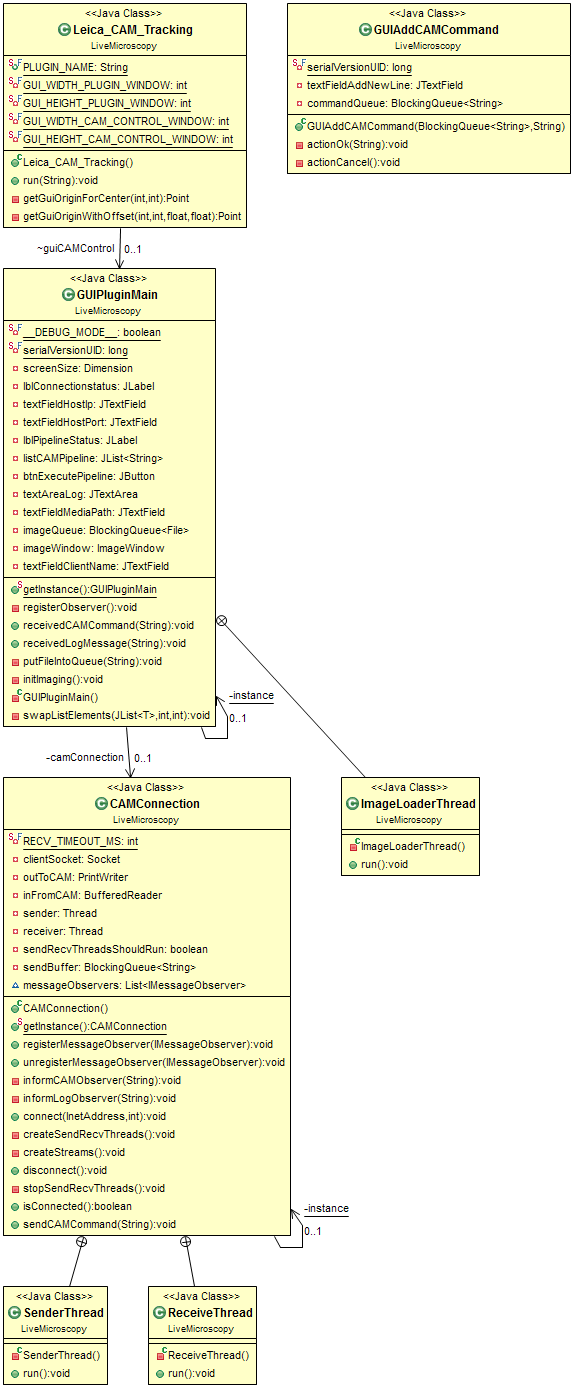
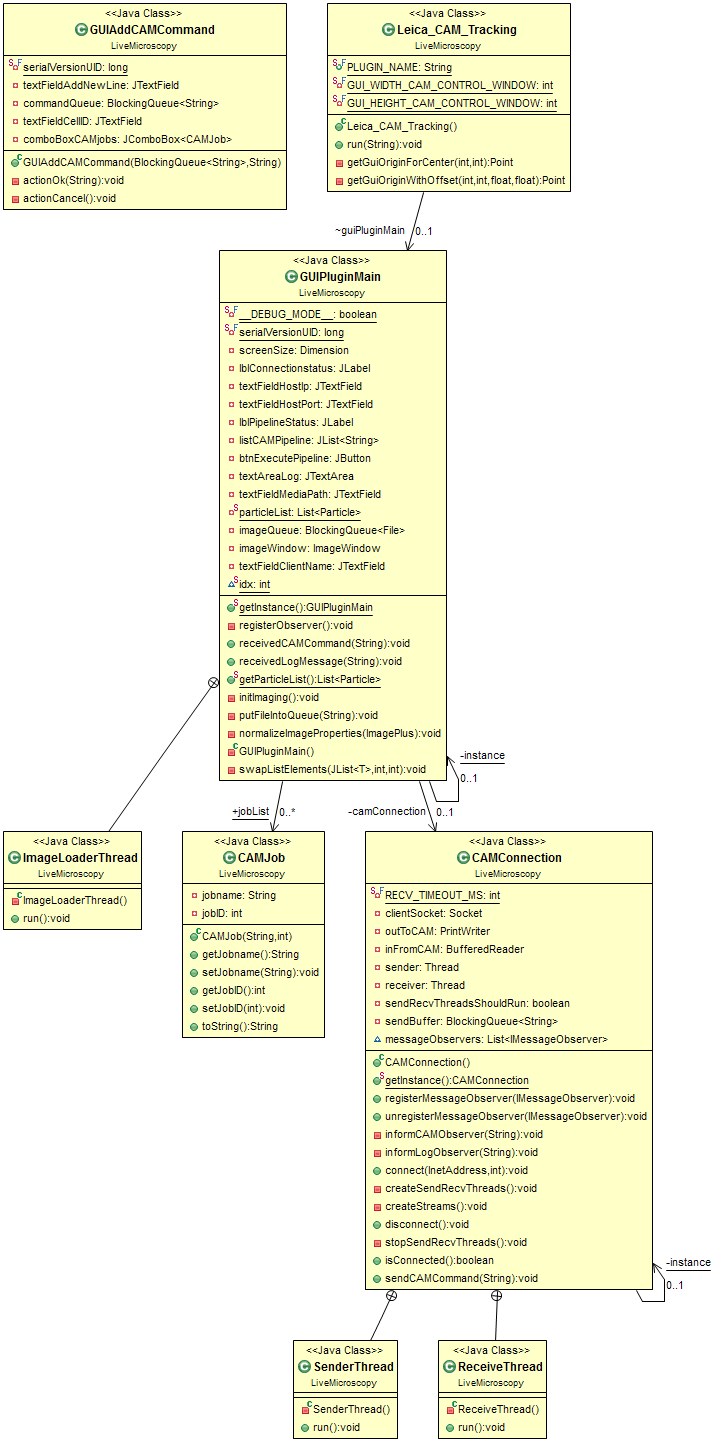
CAM job list --> job can now be selected for <add postion> command

diff --git a/src/LiveMicroscopy/GUIAddCAMCommand.java b/src/LiveMicroscopy/GUIAddCAMCommand.java
@@ -1,5 +1,7 @@
 package LiveMicroscopy;
 
+import ij.gui.GUI;
+
 import java.awt.event.ActionEvent;
 import java.awt.event.ActionListener;
 import java.awt.event.KeyAdapter;
@@ -13,6 +15,12 @@ import javax.swing.JLabel;
 import javax.swing.JPanel;
 import javax.swing.JTextField;
 
+import java.awt.GridBagLayout;
+import java.awt.GridBagConstraints;
+import java.awt.Insets;
+
+import javax.swing.JComboBox;
+
 public class GUIAddCAMCommand extends JFrame {
 
 	private static final long serialVersionUID = 1L;
@@ -21,13 +29,14 @@ public class GUIAddCAMCommand extends JFrame {
 
 	private BlockingQueue<String> commandQueue;
 	private JTextField textFieldCellID;
+	private JComboBox<CAMJob> comboBoxCAMjobs;
 
 	public GUIAddCAMCommand(BlockingQueue<String> commandQueue, String clientName) {
+		
+		setResizable(false);
 		setTitle("Add CAM Command");
 
 		this.commandQueue = commandQueue;
-
-		setResizable(false);
 		getContentPane().setLayout(null);
 
 		// >>>>>>>>>>>>>>>>>>>>>>>>>>>>>>>>>>>>>>>>>>>>>>>>>>>>>>>>>>>>>>>>>>>>>>>>
@@ -48,7 +57,7 @@ public class GUIAddCAMCommand extends JFrame {
 		panelNewLine.add(textFieldAddNewLine);
 		textFieldAddNewLine.addKeyListener(new KeyAdapter() {
 			@Override
-			public void keyPressed(KeyEvent e) {
+			public void keyPressed(KeyEvent e)  {
 
 				switch (e.getKeyCode()) {
 				case KeyEvent.VK_ENTER:
@@ -164,25 +173,39 @@ public class GUIAddCAMCommand extends JFrame {
 		JButton btnAddPosition = new JButton("Add Position");
 		btnAddPosition.addActionListener(new ActionListener() {
 			public void actionPerformed(ActionEvent e) {
-				
-				int cellID = Integer.parseInt(textFieldCellID.getText());
-				List<Particle> particleList = GUIPluginMain.getParticleList();
-				
+
+				// get coordinates for <<Add position command>>
 				int xCoord = 0;
 				int yCoord = 0;
 				
-				if (particleList != null) {
-					xCoord = (int) Math.round(particleList.get(cellID - 1).getX());
-					yCoord = (int) Math.round(particleList.get(cellID - 1).getY());
+				if (!textFieldCellID.getText().isEmpty()) {
+					int cellID = Integer.parseInt(textFieldCellID.getText());
+					List<Particle> particleList = GUIPluginMain.getParticleList();
+					
+					if (particleList != null) {
+						xCoord = (int) Math.round(particleList.get(cellID - 1).getX());
+						yCoord = (int) Math.round(particleList.get(cellID - 1).getY());
+					}
+				}
+				
+				// get experiment name for <<Add position command>>
+				String jobname = "[EXPERIMENT_NAME]";
+				
+				CAMJob job = (CAMJob) comboBoxCAMjobs.getSelectedItem();
+				if (job != null) {
+					jobname = job.getJobname();
 				}
 				
 				textFieldAddNewLine
-						.setText("/cli:"
-								+ clientName
-								+ " /app:matrix /cmd:add /tar:camlist /exp:JOBNAME /ext:none /slide:0 /wellx:0 /welly:0 /fieldx:0 /fieldy:0 /dxpos:" + xCoord + "/dypos:" + yCoord);
+						.setText("/cli:" + clientName
+								+ " /app:matrix /cmd:add /tar:camlist"
+								+ " /exp:" + jobname
+								+ " /ext:none /slide:0 /wellx:0 /welly:0 /fieldx:0 /fieldy:0"
+								+ " /dxpos:" + xCoord
+								+ " /dypos:" + yCoord);
 			}
 		});
-		btnAddPosition.setBounds(244, 70, 107, 23);
+		btnAddPosition.setBounds(285, 104, 129, 23);
 		panelPredefinedCommands.add(btnAddPosition);
 
 		// >>>>>>>>>>>>>>>>>>>>>>>>>>>>>>>>>>>>>>>>>>>>>>>>>>>>>>>>>>>>>>>>>>>>>>>>
@@ -279,9 +302,25 @@ public class GUIAddCAMCommand extends JFrame {
 		panelPredefinedCommands.add(lblCellId);
 		
 		textFieldCellID = new JTextField();
-		textFieldCellID.setBounds(285, 37, 66, 20);
+		textFieldCellID.setBounds(285, 37, 129, 20);
 		panelPredefinedCommands.add(textFieldCellID);
 		textFieldCellID.setColumns(10);
+		
+		JLabel lblJob = new JLabel("Job");
+		lblJob.setBounds(244, 74, 31, 14);
+		panelPredefinedCommands.add(lblJob);
+		
+		comboBoxCAMjobs = new JComboBox<CAMJob>();
+		comboBoxCAMjobs.setBounds(285, 71, 129, 20);
+		panelPredefinedCommands.add(comboBoxCAMjobs);
+		
+		// add CAM job items to combo box
+		List<CAMJob> jobList = GUIPluginMain.jobList;
+		if (jobList != null) {
+			for (int i = 0; i < jobList.size(); i++) {
+				comboBoxCAMjobs.addItem(jobList.get(i));
+			}
+		}
 	}
 
 	private void actionOk(String command) {

diff --git a/src/LiveMicroscopy/GUIPluginMain.java b/src/LiveMicroscopy/GUIPluginMain.java
@@ -1,5 +1,6 @@
 package LiveMicroscopy;
 
+import ij.IJ;
 import ij.ImagePlus;
 import ij.gui.ImageWindow;
 import ij.measure.Calibration;
@@ -83,6 +84,7 @@ public class GUIPluginMain extends JFrame implements IMessageObserver {
 	// <<<<<<<<<<<<<<<<<<<<<<<<<<<<<<<<<<<<<<<<<<<<<<<<<<<<<<<<<<<<<<<<<<<<<<<<
 
 	private CAMConnection camConnection = CAMConnection.getInstance();
+	public static List<CAMJob> jobList;
 
 	// >>>>>>>>>>>>>>>>>>>>>>>>>>>>>>>>>>>>>>>>>>>>>>>>>>>>>>>>>>>>>>>>>>>>>>>>
 	// Observer pattern - IMessageObserver
@@ -101,14 +103,18 @@ public class GUIPluginMain extends JFrame implements IMessageObserver {
 	 * steps.
 	 */
 	public synchronized void receivedCAMCommand(String camCommand) {
-		// TODO: Analyse command
-		// --> CAM message?
 
-		// received new image path
-		if (camCommand.contains("/alternativepath:") || camCommand.contains("/relpath:")) {
+		if (camCommand.contains("/alternativepath:") || camCommand.contains("/relpath:")) { // received new image path
 			putFileIntoQueue(camCommand);
-		} else { // something different
-
+		} else if (camCommand.contains("/dev:joblist")) { // received joblist
+			GUIPluginMain.jobList = CAMCommandParser.getJobs(camCommand);
+			
+			String joblist = "";
+			for (int i = 0; i < jobList.size(); i++) {
+				joblist += jobList.get(i).getJobname() + " (id: " + jobList.get(i).getJobID() + ")\n"; 
+			}
+			
+			textAreaLog.append(joblist);
 		}
 	}
 
@@ -592,7 +598,7 @@ public class GUIPluginMain extends JFrame implements IMessageObserver {
 		// <<<<<<<<<<<<<<<<<<<<<<<<<<<<<<<<<<<<<<<<<<<<<<<<<<<<<<<<<<<<<<<<<<<<<<<<
 
 		JPanel panelCAMLog = new JPanel();
-		panelCAMLog.setBounds(10, 397, 464, 154);
+		panelCAMLog.setBounds(10, 397, 464, 354);
 		getContentPane().add(panelCAMLog);
 		panelCAMLog.setLayout(null);
 
@@ -601,7 +607,7 @@ public class GUIPluginMain extends JFrame implements IMessageObserver {
 		panelCAMLog.add(lblCamCommunicationLog);
 
 		JScrollPane scrollPaneLog = new JScrollPane();
-		scrollPaneLog.setBounds(10, 36, 444, 107);
+		scrollPaneLog.setBounds(10, 36, 444, 307);
 		panelCAMLog.add(scrollPaneLog);
 
 		textAreaLog = new JTextArea();

diff --git a/src/LiveMicroscopy/CAMCommandParser.java b/src/LiveMicroscopy/CAMCommandParser.java
@@ -1,6 +1,8 @@
 package LiveMicroscopy;
 
+import java.util.ArrayList;
 import java.util.Hashtable;
+import java.util.List;
 
 /**
  * The CAMCommandParser is able to validate a given CAM command and parsing a
@@ -14,6 +16,27 @@ public class CAMCommandParser {
 	private CAMCommandParser() {
 	}
 
+	public static List<CAMJob> getJobs(String camCommand) {
+			
+		Hashtable<String, String> parsedCommand = parseStringToCAMCommand(camCommand);
+		
+		int jobCount = Integer.parseInt(parsedCommand.get("count"));
+		
+		List<CAMJob> jobs = new ArrayList<CAMJob>(jobCount);
+		
+		for (int i = 1; i <= jobCount; i++) {
+			String nameIdentifier = "jobname" + i;
+			String idIdentifier = "jobid" + i;
+			
+			String jobname = parsedCommand.get(nameIdentifier);
+			int jobid = Integer.parseInt(parsedCommand.get(idIdentifier));
+			
+			jobs.add(new CAMJob(jobname, jobid));
+		}
+		
+		return jobs;
+	}
+	
 	/**
 	 * Parses a given CAM command and puts all commands and their parameters
 	 * into a hashmap.
@@ -43,6 +66,11 @@ public class CAMCommandParser {
 		return parsedCommand;
 	}
 
+	/**
+	 * Checks if the CAM syntax for the given command is correct.
+	 * @param camCommand The CAM command as string
+	 * @return true if syntax is correct - false if not
+	 */
 	public static boolean isValidCAMCommand(String camCommand) {
 		// split into {/command:parameter} blocks
 		camCommand = camCommand.replace("\n", " ");
@@ -60,5 +88,5 @@ public class CAMCommandParser {
 		}
 
 		return true;
-	}
+	}	
 }

diff --git a/src/LiveMicroscopy/CAMJob.java b/src/LiveMicroscopy/CAMJob.java
@@ -1,0 +1,31 @@
+package LiveMicroscopy;
+
+public class CAMJob {
+	private String jobname;
+	private int jobID;
+	
+	public CAMJob(String jobname, int jobID) {
+		this.jobname = jobname;
+		this.jobID = jobID;
+	}
+
+	public String getJobname() {
+		return jobname;
+	}
+
+	public void setJobname(String jobname) {
+		this.jobname = jobname;
+	}
+
+	public int getJobID() {
+		return jobID;
+	}
+
+	public void setJobID(int jobID) {
+		this.jobID = jobID;
+	}
+	
+	public String toString() {
+		return this.jobname;
+	}
+}

diff --git a/src/LiveMicroscopy/Leica_CAM_Tracking.java b/src/LiveMicroscopy/Leica_CAM_Tracking.java
@@ -36,7 +36,7 @@ public class Leica_CAM_Tracking implements PlugIn {
 //	private static final int GUI_HEIGHT_PLUGIN_WINDOW = 900;
 	
 	private static final int GUI_WIDTH_CAM_CONTROL_WINDOW  = 500;
-	private static final int GUI_HEIGHT_CAM_CONTROL_WINDOW = 600;
+	private static final int GUI_HEIGHT_CAM_CONTROL_WINDOW = 800;
 
 //	PluginWindow guiPluginWindow = null;
 	GUIPluginMain guiPluginMain = null;
